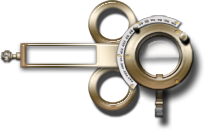
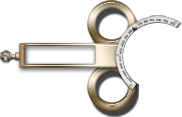
Make looking glass animanted.

diff --git a/package/contents/ui/calendar/Calendar.qml b/package/contents/ui/calendar/Calendar.qml
@@ -26,6 +26,16 @@ Item {
                 target: cogAnimationTimer
                 dirrection: 1
             }
+
+            PropertyChanges {
+                target: lookingGlassImageRotation
+                angle: 90
+            }
+
+            PropertyChanges {
+                target: lookingGlassShadowImageRotation
+                angle: 90
+            }
         },
         State {
             name: "in"
@@ -324,17 +334,6 @@ Item {
             }
         }
 
-        Rectangle {
-            id: rectangleLookingGlass
-            x: 139
-            y: 36
-            opacity: 0.53
-            visible: false
-            width: 40
-            height: 40
-            radius: width * 0.5
-        }
-
         Image {
             id: calendarImage
             x: 0
@@ -355,14 +354,12 @@ Item {
                 }
 
                 onClicked: {
-                    if (sw)
-                        yearText.state = "yy"
+                    if (yearItem.state === "yyyy")
+                        yearItem.state = "yy"
                     else
-                        yearText.state = "yyyy"
+                        yearItem.state = "yyyy"
 
-                    sw = !sw
-
-                    plasmoid.configuration.yearState = yearText.state
+                    plasmoid.configuration.yearState = yearItem.state
                 }
             }
 
@@ -371,7 +368,7 @@ Item {
                 x: 131
                 y: 25
                 width: 9
-                height: 11
+                height: 9
                 cursorShape: Qt.PointingHandCursor
 
                 Component.onCompleted: {
@@ -387,40 +384,6 @@ Item {
 
             MouseArea {
                 id: realTimeSwitch
-                x: 154
-                y: 96
-                width: 10
-                height: 24
-                cursorShape: Qt.PointingHandCursor
-
-                Component.onCompleted: {
-                    debugMouseArea(this)
-                }
-
-                onClicked: {
-                    main.setToRealTime()
-                }
-            }
-
-            MouseArea {
-                id: topButtonSwitch
-                x: 178
-                y: 32
-                width: 12
-                height: 14
-                cursorShape: Qt.PointingHandCursor
-
-                Component.onCompleted: {
-                    debugMouseArea(this)
-                }
-
-                onClicked: {
-
-                }
-            }
-
-            MouseArea {
-                id: inOutSwitch
                 x: 0
                 y: 49
                 width: 13
@@ -432,8 +395,95 @@ Item {
                 }
 
                 onClicked: {
-                    calendar.state === "in" ? calendar.state = "out" : calendar.state = "in"
-                    plasmoid.configuration.calendarState = calendar.state
+                    main.setToRealTime();
+                }
+            }
+        }
+
+        Item {
+            id: lookingGlassItem
+            x: 123
+            y: 23
+
+            Image {
+                id: lookingGlassShadowImage
+                x: 2
+                y: 2
+
+                smooth: true
+                source: "lookingGlassShadow.png"
+
+                transform: Rotation {
+                    id: lookingGlassShadowImageRotation
+                    origin.x: lookingGlassShadowImage.width / 2
+                    origin.y: 39
+                    angle: 0
+                    Behavior on angle {
+                        SpringAnimation { spring: 4; damping: 0.3; modulus: 360 }
+                    }
+                }
+            }
+
+            Image {
+                id: lookingGlassGlassImage
+                x: 12
+                y: 10
+
+                width: 46
+                height: 30
+
+                smooth: true
+                source: "../clock/clockglass.png"
+            }
+
+            Image {
+                id: lookingGlassImage
+                smooth: true
+                source: "lookingGlass.png"
+
+                transform: Rotation {
+                    id: lookingGlassImageRotation
+                    origin.x: lookingGlassImage.width / 2
+                    origin.y: 33
+                    angle: 0
+                    Behavior on angle {
+                        SpringAnimation { spring: 4; damping: 0.3; modulus: 360 }
+                    }
+                }
+
+                MouseArea {
+                    id: lookingGlassHandleSwitch
+                    x: 31
+                    y: 70
+                    width: 10
+                    height: 24
+                    cursorShape: Qt.PointingHandCursor
+
+                    Component.onCompleted: {
+                        debugMouseArea(this)
+                    }
+
+                    onClicked: {
+                        calendar.state === "in" ? calendar.state = "out" : calendar.state = "in"
+                        plasmoid.configuration.calendarState = calendar.state
+                    }
+                }
+
+                MouseArea {
+                    id: lookingGlassButtonSwitch
+                    x: 54
+                    y: 10
+                    width: 12
+                    height: 12
+                    cursorShape: Qt.PointingHandCursor
+
+                    Component.onCompleted: {
+                        debugMouseArea(this)
+                    }
+
+                    onClicked: {
+
+                    }
                 }
             }
         }

diff --git a/package/contents/ui/timekeeper/Timekeeper.qml b/package/contents/ui/timekeeper/Timekeeper.qml
@@ -8,8 +8,8 @@ Item {
     height: parent.height
 
     property bool isRealTime: true
-    property string nonRealTimeColour: "#ff0000"
-    property double nonRealTimeOpacity: 0.35
+    property string nonRealTimeColour: "#ffff00"
+    property double nonRealTimeOpacity: 0.3
     
     property var backgroundImages: [
         "frame/backgrounds/glassImmage.png",
